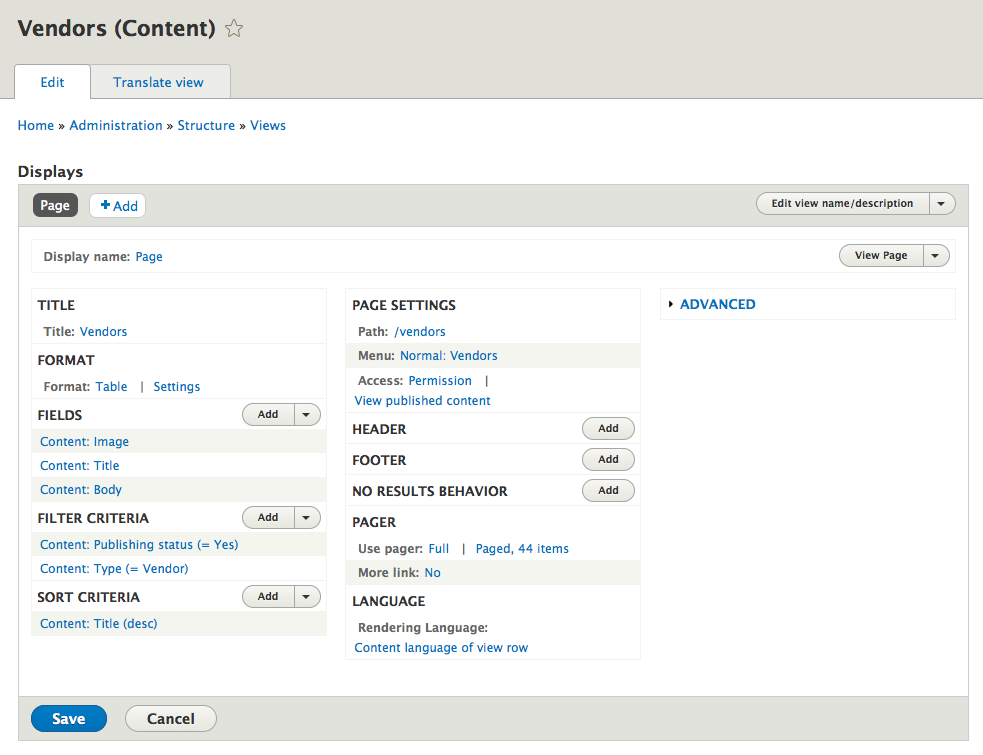
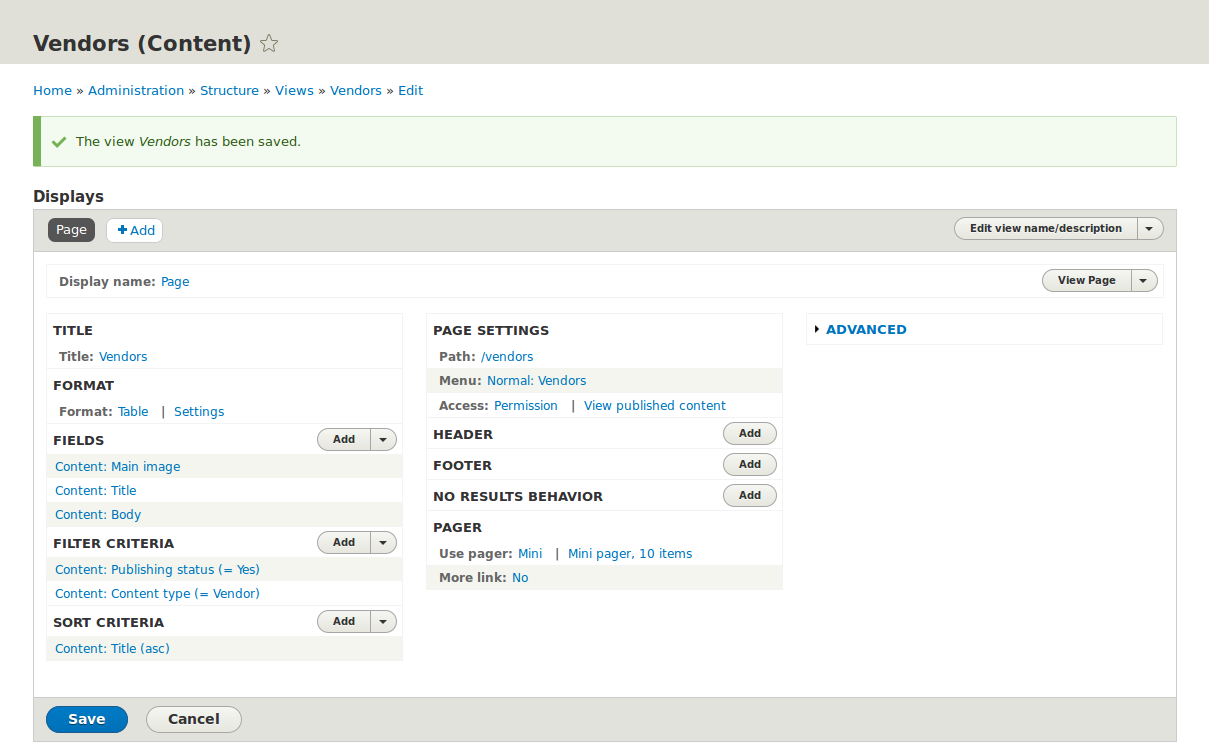
Issue #2539918 by jhodgdon: Automate more screenshots

diff --git a/auto_screenshots/src/Tests/UserGuideDemoTestBase.php b/auto_screenshots/src/Tests/UserGuideDemoTestBase.php
@@ -59,14 +59,14 @@ abstract class UserGuideDemoTestBase extends WebTestBase {
 
     // Home page content item.
     'home_title' => 'Home',
-    'home_body' => "<p>Welcome to City Market - your neighborhood farmers market!</p>\n<p>Open: Sundays, 9 AM to 2 PM, April to September</p>\n<p>Location: Parking lot of Trust Bank, 1st & Union, downtown</p>",
+    'home_body' => "<p>Welcome to City Market - your neighborhood farmers market!</p><p>Open: Sundays, 9 AM to 2 PM, April to September</p><p>Location: Parking lot of Trust Bank, 1st & Union, downtown</p>",
     'home_summary' => 'Opening times and location of City Market',
     'home_path' => '/home',
     'home_revision_log_message' => 'Updated opening hours',
 
     // About page content item.
     'about_title' => 'About',
-    'about_body' => "<p>City Market started in April 1990 with five vendors.</p>\n<p>Today, it has 100 vendors and an average of 2000 visitors per day.</p>",
+    'about_body' => "<p>City Market started in April 1990 with five vendors.</p><p>Today, it has 100 vendors and an average of 2000 visitors per day.</p>",
     'about_path' => '/about',
     'about_description' => 'History of the market',
 
@@ -137,8 +137,12 @@ abstract class UserGuideDemoTestBase extends WebTestBase {
     'hours_block_description' => 'Hours and location block',
     'hours_block_title' => 'Hours and location',
     'hours_block_title_machine_name' => 'hours_location',
-    'hours_block_body' => "<p>Open: Sundays, 9 AM to 2 PM, April to September</p>\n<p>Location: Parking lot of Trust Bank, 1st & Union, downtown</p>",
+    'hours_block_body' => "<p>Open: Sundays, 9 AM to 2 PM, April to September</p><p>Location: Parking lot of Trust Bank, 1st & Union, downtown</p>",
 
+    // Vendors view.
+    'vendors_view_title' => 'Vendors',
+    'vendors_view_machine_name' => 'vendors',
+    'vendors_view_path' => 'vendors'
   ];
 
   /**
@@ -1025,7 +1029,7 @@ abstract class UserGuideDemoTestBase extends WebTestBase {
     // Topic: block-place - Placing a Block in a Region.
 
     // Configuration page for placing a custom block in the sidebar.
-    $this->setUpScreenShot('block-place-configure-block.png', 'onLoad="jQuery(\'#edit-settings-label\').val(\'' . $this->demoInput['hours_block_title'] . '\'); jQuery(\'.machine-name-value\').html(\'' . $this->demoInput['hours_block_title_machine_name'] . '\');' . $this->hideArea('#toolbar-administration, #edit-block-region-wrapper') . $this->setWidth('.content-header, .layout-container', 800) . $this->removeScrollbars() . '"');
+    $this->setUpScreenShot('block-place-configure-block.png', 'onLoad="jQuery(\'#edit-settings-label\').val(\'' . $this->demoInput['hours_block_title'] . '\'); jQuery(\'.machine-name-value\').html(\'' . $this->demoInput['hours_block_title_machine_name'] . '\');' . 'jQuery(\'#edit-region\').val(\'sidebar_second\');' . $this->hideArea('#toolbar-administration') . $this->setWidth('.content-header, .layout-container', 800) . $this->removeScrollbars() . '"');
 
     // Place the block in Bartik, sidebar second.
     $this->drupalPostForm(NULL, [
@@ -1037,6 +1041,82 @@ abstract class UserGuideDemoTestBase extends WebTestBase {
     // About page with placed sidebar block.
     $this->setUpScreenShot('block-place-sidebar.png', 'onLoad="' . $this->hideArea('#toolbar-administration, footer') . $this->removeScrollbars() . '"');
 
+
+    // Topic: views-create: Creating a Content List View.
+
+    // Create a Vendors view.
+    $this->drupalGet('admin/structure/views/add');
+    // Add view wizard.
+    $this->setUpScreenShot('views-create-wizard.png', 'onLoad="' . 'jQuery(\'#edit-label\').val(\'' . $this->demoInput['vendors_view_title'] . '\').change(); jQuery(\'#edit-label-machine-name-suffix\').show(); jQuery(\'.machine-name-value\').html(\'' . $this->demoInput['vendors_view_machine_name'] . '\').parent().show(); jQuery(\'#edit-show-type\').val(\'' . $this->demoInput['vendor_type_machine_name'] . '\'); jQuery(\'#edit-show-sort\').val(\'node_field_data-title:DESC\'); jQuery(\'#edit-page-create\').attr(\'checked\', \'checked\'); jQuery(\'#edit-page--2\').show(); jQuery(\'#edit-page-title\').val(\'' . $this->demoInput['vendors_view_title'] . '\'); jQuery(\'#edit-page-path\').val(\'' . $this->demoInput['vendors_view_path'] . '\'); jQuery(\'.form-item-page-style-style-plugin select\').val(\'table\'); jQuery(\'#edit-page-link\').attr(\'checked\', \'check\'); jQuery(\'.form-item-page-link-properties-menu-name select\').val(\'main\');  jQuery(\'.form-item-page-link-properties-title select\').val(\'' . $this->demoInput['vendors_view_title'] . '\');' . $this->hideArea('#toolbar-administration, .messages') . $this->removeScrollbars() . '"');
+    $this->drupalPostForm(NULL, [
+        'label' => $this->demoInput['vendors_view_title'],
+        'id' => $this->demoInput['vendors_view_machine_name'],
+        'show[type]' => $this->demoInput['vendor_type_machine_name'],
+        'show[sort]' => 'node_field_data-title:DESC',
+        'page[create]' => TRUE,
+        'page[title]' => $this->demoInput['vendors_view_title'],
+        'page[path]' => $this->demoInput['vendors_view_path'],
+        'page[style][style_plugin]' => 'table',
+        'page[link]' => TRUE,
+        'page[link_properties][menu_name]' => 'main',
+        'page[link_properties][title]' => $this->demoInput['vendors_view_title'],
+      ], $this->callT('Save and edit'));
+    // The next statements add parts to the view, using no-JS options for the
+    // test.
+    // Add the main image field.
+    $this->clickLinkContainingUrl('add-handler');
+    $this->drupalPostForm(NULL, [
+        'name[node__field_' . $main_image . '.field_' . $main_image . ']' => 'node__field_' . $main_image . '.field_' . $main_image,
+      ], $this->callT('Add and configure fields'));
+    $this->drupalPostForm(NULL, [
+        'options[custom_label]' => FALSE,
+        'options[settings][image_style]' => 'medium',
+        'options[settings][image_link]' => 'content',
+      ], $this->callT('Apply'));
+    // Add the body field.
+    $this->clickLinkContainingUrl('add-handler');
+    $this->drupalPostForm(NULL, [
+        'name[node__body.body]' => 'node__body.body',
+      ], $this->callT('Add and configure fields'));
+    $this->drupalPostForm(NULL, [
+        'options[custom_label]' => FALSE,
+        'options[type]' => 'text_summary_or_trimmed',
+      ], $this->callT('Apply'));
+    // Fix the configuration for the Title field: remove the label.
+    $this->clickLinkContainingUrl('field/title');
+    $this->drupalPostForm(NULL, [
+        'options[custom_label]' => FALSE,
+      ], $this->callT('Apply'));
+    // Fix the configuration for the Body field: change the trim length.
+    $this->clickLinkContainingUrl('field/body');
+    $this->drupalPostForm(NULL, [
+        'options[settings][trim_length]' => 120,
+      ], $this->callT('Apply'));
+    // Reorder the fields.
+    $this->clickLinkContainingUrl('rearrange');
+    $this->drupalPostForm(NULL, [
+        'fields[title][weight]' => 3,
+        'fields[body][weight]' => 4,
+      ], $this->callT('Apply'));
+    // Fix the menu weight.
+    $this->clickLinkContainingUrl('menu');
+    $this->drupalPostForm(NULL, [
+        'menu[weight]' => 20,
+      ], $this->callT('Apply'));
+    // Change the title sort to ascending.
+    $this->clickLinkContainingUrl('sort/title');
+    $this->drupalPostForm(NULL, [
+        'options[order]' => 'ASC',
+      ], $this->callT('Apply'));
+
+    // Save the view.
+    $this->drupalPostForm(NULL, [], $this->callT('Save'));
+    // Completed vendors view administration page.
+    $this->setUpScreenShot('views-create-view.png', 'onLoad="' . $this->hideArea('#toolbar-administration, #views-preview-wrapper, .messages') . $this->removeScrollbars() . '"');
+    // View the output, with preloaded images.
+    $this->drupalGetWithImagePreload($this->demoInput['vendors_view_path']);
+    // Completed vendors view output.
+    $this->setUpScreenShot('views-create-view-output.png', 'onLoad="' . $this->hideArea('#toolbar-administration, #header, .breadcrumb, #sidebar-first, #sidebar-second, .site-footer') . $this->removeScrollbars() . $this->setBodyColor() . '"');
 
     // @todo Add more topics here.
 
@@ -1338,6 +1418,37 @@ abstract class UserGuideDemoTestBase extends WebTestBase {
     ];
     $this->writeSettings($settings);
     Settings::initialize(DRUPAL_ROOT, $this->siteDirectory, $this->classLoader);
+  }
+
+  /**
+   * Finds a link whose link contains the given URL substring, and clicks it.
+   */
+  protected function clickLinkContainingUrl($url, $index = 0) {
+    $urls = $this->xpath('//a[contains(@href, :url)]', [':url' => $url]);
+    if (isset($urls[$index])) {
+      $url_target = $this->getAbsoluteUrl($urls[$index]['href']);
+      $this->drupalGet($url_target);
+    }
+    else {
+      $this->fail('Could not find link matching ' . $url);
+    }
+  }
+
+  /**
+   * Finds and preloads all images on the given path, and the the page itself.
+   *
+   * This is primarily useful if you have image styles in force on the page.
+   */
+  protected function drupalGetWithImagePreload($path) {
+    $this->drupalGet($path);
+    $imgs = $this->xpath('//img');
+    foreach ($imgs as $img) {
+      $source = $this->getAbsoluteUrl($img['src']);
+      // Load the image.
+      $this->drupalGet($source);
+      // Reload the main page again so that getAbsoluteUrl() works right.
+      $this->drupalGet($path);
+    }
   }
 
 }
